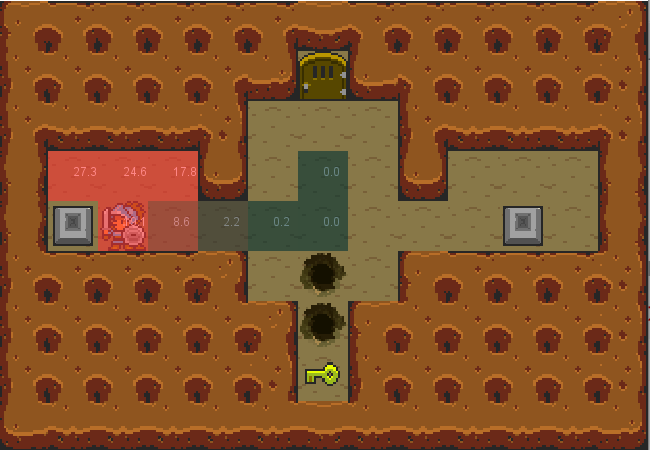
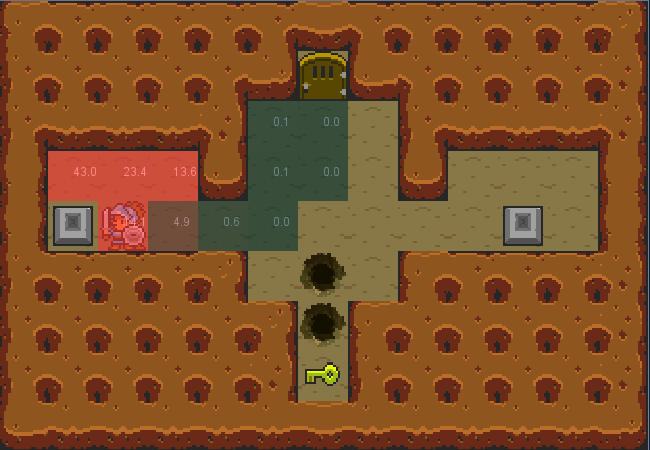
Updated the data saving code

diff --git a/Artefact/gvgai-2016/src/DissertationFiles/DataCollection.java b/Artefact/gvgai-2016/src/DissertationFiles/DataCollection.java
@@ -1,4 +1,5 @@
 package DissertationFiles;
+import core.game.Game;
 import core.game.Observation;
 import core.game.StateObservation;
 import org.json.JSONArray;
@@ -106,10 +107,12 @@ public class DataCollection
         //     GameData.put("LastLocation", ConvertPositionToJSON(SO.getAvatarPosition()));
         // else
         //     GameData.put("DeathLocation", ConvertPositionToJSON(SO.getAvatarPosition()));
+        GameData.put("GameID", dataCollection.gameIteration);
         GameData.put("GameScore", SO.getGameScore());
         GameData.put("GameSpaceSearched", calculatePercentageOfExploredLevel(SO));                                      // Calculate search space
-        GameData.put("AvatarType", SO.getAvatarType());
-        GameData.put("Score", dataCollection.AgentScore);
+        GameData.put("TotalCellsVisisted", cellsExplored);
+        GameData.put("Score", SO.getGameScore());
+        GameData.put("EndGameTick", SO.getGameTick());
 
         if (SO.getGameTick() >= 2000)
             GameData.put("TimeOut", 1);
@@ -117,16 +120,10 @@ public class DataCollection
             GameData.put("TimeOut", 0);
 
         // Add the values to allData json object
-        dataCollection.AllData.put("GameData" + dataCollection.gameIteration, GameData);
+        dataCollection.AllData.put("GameData_" + dataCollection.gameIteration + "_" + dataCollection.levelIteration, GameData);
 
         // Save game points visted to file
         CaptureScreen(SO);
-
-        // Save Score to CSV
-        JSONARRAYToCSV(dataCollection.AgentScore);
-
-        //Write the data
-        System.out.println(AllData.toString());
 
         // If the level has changed
         if(dataCollection.localGameIterator != dataCollection.gameIteration && recordPositionsOverMultipleGames)

diff --git a/Artefact/gvgai-2016/src/Test.java b/Artefact/gvgai-2016/src/Test.java
@@ -70,7 +70,7 @@ public class Test
 
         //Game and level to play
 
-        int gameIdx = 7;
+        int gameIdx = 0;
         int levelIdx = 1; //level names from 0 to 4 (game_lvlN.txt).
         String game = gamesPath + games[gameIdx] + ".txt";
         String level1 = gamesPath + games[gameIdx] + "_lvl" + levelIdx +".txt";
@@ -92,14 +92,14 @@ public class Test
 
         // 4. This plays a single game, in N levels, M times :  Use games.length for all games
         //String level2 = gamesPath + games[gameIdx] + "_lvl" + 1 +".txt";
-        int M = 10;
-        for(int i = gameIdx; i < games.length; i++)
+        int M = 20;
+        for(int i = gameIdx; i < 1; i++)
         {
         	game = gamesPath + games[i] + ".txt";
-            DataCollection.getInstance().ControllerName = sampleOLMCTSController;
+            DataCollection.getInstance().ControllerName = sampleMCTSController;
             DataCollection.getInstance().gameIteration = i;
         	level1 = gamesPath + games[i] + "_lvl" + levelIdx +".txt";
-        	ArcadeMachine.runGames(game, new String[]{level1}, M, sampleOLMCTSController, null);
+        	ArcadeMachine.runGames(game, new String[]{level1}, M, sampleMCTSController, null);
         }
 
         //// Save all game data
